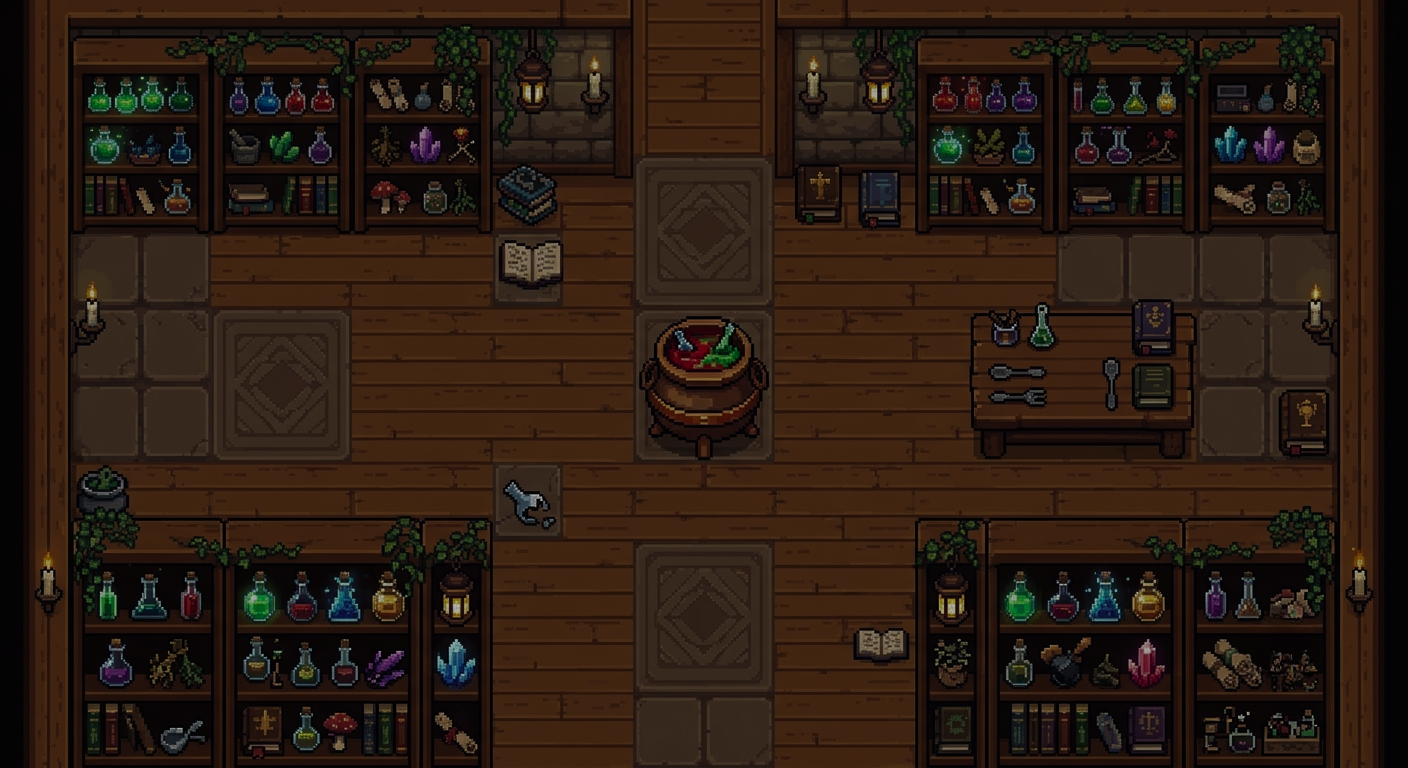
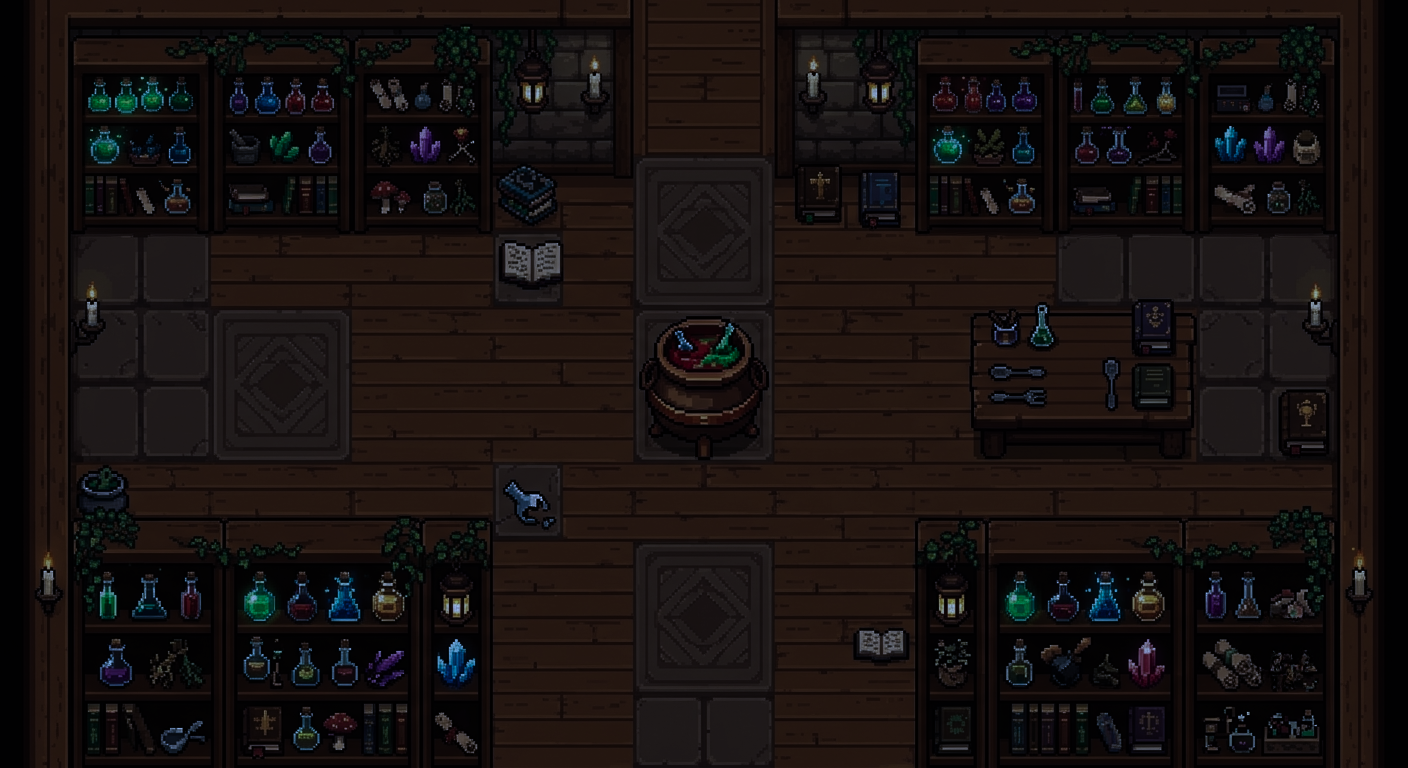
Code

diff --git a/sketch.js b/sketch.js
@@ -91,13 +91,14 @@ let home;
 let school;
 let banner;
 
-let goblins;
-let goblin;
-let goblinslvl2;
-let goblinslvl3;
 
 let classroomdoor;
 let cafedoor;
+
+let desk;
+let desk1;
+let desk2;
+let desk3;
 
 let cobblestone;
 let crackedStone;
@@ -186,6 +187,15 @@ const level2Dialogue = [
   "Okay, that journey was a lot... but I made it.",
   "I can't be late for chemistry class! I need ingredients for the potions assignment.",
   "Let's get moving before the ingredients run out!",
+];
+
+// DIALOGUE (LEVEL 3 INTRO)
+let level3DialogueActive = false;
+let level3DialogueIndex = 0;
+const level3Dialogue = [
+  "Whew, the potions are done. Now to get to the exit.",
+  "This place looks trickier than the last one...",
+  "Okay Faith, one more stretch. You've got this!",
 ];
 
 // LASER DAMAGE
@@ -537,19 +547,125 @@ let lasers3 = [
 
 
 let laserBeams = [
-  { x1: 125, y1: 112, x2: 832, y2: 112, blinkRate: 80, on: true, timer: 0 },
-  { x1: 125, y1: 216, x2: 316, y2: 216, blinkRate: 150, on: true, timer: 0 },
-  { x1: 45, y1: 296, x2: 112, y2: 296, blinkRate: 100, on: true, timer: 0 },
-  { x1: 245, y1: 496, x2: 428, y2: 496, blinkRate: 60, on: true, timer: 0 },
+  //top most laser
+  {
+    x1: 85,
+    y1: 105, // beam start (pixel coordinates)
+    x2: 260,
+    y2: 105, // beam end (pixel coordinates)
+    blinkRate: 80, // HAS TO MATCH WITH LASERS ABOVE
+    on: true,
+    timer: 0,
+  },
+  {
+    x1: 575,
+    y1: 225,
+    x2: 680,
+    y2: 225,
+    blinkRate: 100,
+    on: true,
+    timer: 0,
+  },
+  {
+    x1: 320,
+    y1: 385,
+    x2: 740,
+    y2: 385,
+    blinkRate: 150,
+    on: true,
+    timer: 0,
+  },
+  {
+    x1: 844,
+    y1: 305,
+    x2: 940,
+    y2: 305,
+    blinkRate: 60,
+    on: true,
+    timer: 0,
+  },
 ];
 
 let laserBeams2 = [
-  // Each beam begins at its Level 2 goblin and follows the open corridor to the left.
-  { x1: 125, y1: 112, x2: 832, y2: 112, blinkRate: 80, on: true, timer: 0 },
-  { x1: 125, y1: 216, x2: 316, y2: 216, blinkRate: 150, on: true, timer: 0 },
-  { x1: 45, y1: 296, x2: 112, y2: 296, blinkRate: 100, on: true, timer: 0 },
-  { x1: 245, y1: 496, x2: 428, y2: 496, blinkRate: 60, on: true, timer: 0 },
+  //top most laser
+  {
+    x1: 125,
+    y1: 105, // beam start (pixel coordinates)
+    x2: 1010,
+    y2: 105, // beam end (pixel coordinates)
+    blinkRate: 80, // HAS TO MATCH WITH LASERS ABOVE
+    on: true,
+    timer: 0,
+  },
+  {
+    x1: 575,
+    y1: 225,
+    x2: 680,
+    y2: 225,
+    blinkRate: 100,
+    on: true,
+    timer: 0,
+  },
+  {
+    x1: 320,
+    y1: 385,
+    x2: 740,
+    y2: 385,
+    blinkRate: 150,
+    on: true,
+    timer: 0,
+  },
+  {
+    x1: 844,
+    y1: 305,
+    x2: 940,
+    y2: 305,
+    blinkRate: 60,
+    on: true,
+    timer: 0,
+  },
 ];
+
+let laserBeams3 = [
+  //top most laser
+  {
+    x1: 85,
+    y1: 105, // beam start (pixel coordinates)
+    x2: 260,
+    y2: 105, // beam end (pixel coordinates)
+    blinkRate: 80, // HAS TO MATCH WITH LASERS ABOVE
+    on: true,
+    timer: 0,
+  },
+  {
+    x1: 575,
+    y1: 225,
+    x2: 680,
+    y2: 225,
+    blinkRate: 100,
+    on: true,
+    timer: 0,
+  },
+  {
+    x1: 320,
+    y1: 385,
+    x2: 740,
+    y2: 385,
+    blinkRate: 150,
+    on: true,
+    timer: 0,
+  },
+  {
+    x1: 844,
+    y1: 305,
+    x2: 940,
+    y2: 305,
+    blinkRate: 60,
+    on: true,
+    timer: 0,
+  },
+];
+
 
 // PATHWAY TILE VARIATION (LEVEL 2)
 let pathTiles = []; // pathTiles[row][col] = image to use for that floor tile
@@ -563,6 +679,22 @@ function setupPathTiles() {
     for (let c = 0; c < COLS; c++) {
       let index = floor(random(stoneVariants.length));
       pathTiles[r][c] = stoneVariants[index];
+    }
+  }
+}
+
+// WALL TILE VARIATION (LEVEL 2)
+let wallTiles = []; // wallTiles[row][col] = image to use for that wall tile
+
+function setupWallTiles() {
+  let deskVariants = [desk, desk1, desk2, desk3];
+
+  wallTiles = [];
+  for (let r = 0; r < ROWS; r++) {
+    wallTiles[r] = [];
+    for (let c = 0; c < COLS; c++) {
+      let index = floor(random(deskVariants.length));
+      wallTiles[r][c] = deskVariants[index];
     }
   }
 }
@@ -858,11 +990,13 @@ function preload() {
 
   classroomdoor = loadImage("assets/images/classroomdoor.png");
   cafedoor = loadImage("assets/images/cafedoor.png");
+
+  flask = loadImage("assets/images/flask.png");
   
-  desk = loadImage("assets/images/desksMaterials.png");
-  desk1 = loadImage("assets/images/desksMaterials2.png");
-  desk2 = loadImage("assets/images/desksMaterials3.png");
-  desk3 = loadImage("assets/images/cafedoor.png");
+  desk = loadImage("assets/images/desk.png");
+  desk1 = loadImage("assets/images/desksMaterials.jpg");
+  desk2 = loadImage("assets/images/desksMaterials2.jpg");
+  desk3 = loadImage("assets/images/desksMaterials3.jpg");
 
   cobblestone = loadImage("assets/images/cobblestone.png");
   crackedStone = loadImage("assets/images/crackedStone.png");
@@ -874,10 +1008,10 @@ function preload() {
   emptyCafeTable = loadImage("assets/images/emptyCafeTable.png");
 
   feather = loadImage("assets/images/feather.png");
-eyeballs = loadImage("assets/images/eyeballs.png");
-krakenInk = loadImage("assets/images/krakenInk.png");
-stardust = loadImage("assets/images/stardust.png");
-bone = loadImage("assets/images/bone.png");
+  eyeballs = loadImage("assets/images/eyeballs.png");
+  krakenInk = loadImage("assets/images/krakenInk.png");
+  stardust = loadImage("assets/images/stardust.png");
+  bone = loadImage("assets/images/bone.png");
 
   playerHitSound = loadSound("assets/sounds/hit.mp3");
 
@@ -905,6 +1039,7 @@ function setup() {
   initWallExpansion();
   setupCollectibles();
   setupPathTiles();
+  setupWallTiles();
 }
 
 function updateCamera() {
@@ -930,10 +1065,7 @@ function draw() {
     return;
   }
 
-  if (maze === maze3) {
-    //drawFoodMinigame();
-    return;
-  }
+
 
   if (firstLevelComplete) {
     drawFirstLevelCompleteScreen();
@@ -980,6 +1112,8 @@ function draw() {
     drawLevel2DialogueBox();
     return;
   }
+
+ 
 
   updateCamera();
 
@@ -1098,6 +1232,14 @@ function keyPressed() {
     return;
   }
 
+  if (level3DialogueActive && (key === " " || keyCode === ENTER)) {
+    level3DialogueIndex++;
+    if (level3DialogueIndex >= level3Dialogue.length) {
+      level3DialogueActive = false;
+    }
+    return;
+  }
+
   if (key === " " && !gameStarted) {
     showTutorial = true;
 
@@ -1121,7 +1263,6 @@ function keyPressed() {
 }
 
 function mousePressed() {
-  if (maze === maze3 && !thirdLevelComplete && !gameOver && clickFoodGoblin()) return;
 
   if (introDialogueActive) {
     introDialogueIndex++;
@@ -1717,6 +1858,8 @@ function drawLevel2DialogueBox() {
   text("click or press SPACE to continue", boxX + boxW - 20, boxY + boxH - 12);
 }
 
+
+
 // BADGE
 function drawBadge() {
   if (!badgeUnlocked && !potionBadgeUnlocked) return;
@@ -1835,8 +1978,11 @@ function drawMaze() {
 
       if (tile === 1) {
         let expand = wallExpansion[row][col] * WALL_MAX_EXPAND;
+
+        let wallImg = (maze === maze2) ? wallTiles[row][col] : wall;
+
         image(
-          wall,
+          wallImg,
           col * tileSize - expand,
           row * tileSize - expand,
           tileSize + expand * 2,
@@ -1886,7 +2032,7 @@ function drawSocialBar() {
   textSize(15);
   let objective = "LVL 1: Make your way to school!";
   if (maze === maze2) objective = "LVL 2: Reach the cafe!";
-  if (maze === maze3) objective = "LVL 3: Stop the food fight!";
+  if (maze === maze3) objective = "LVL 3: Collect food and reach the exit!";
   text(objective, 50, 24);
 
  // Collectible Count
@@ -2331,9 +2477,16 @@ function resetBeakers() {
  
 
 function loadThirdLevel() {
+
   maze = maze3;
+
+  lasers = lasers3;
+  laserBeams = laserBeams3
   socialBattery = 100;
   gameOver = false;
+
+  lasers = lasers3;
+  laserBeams = laserBeams3;
 
 
   firstLevelComplete = false;
@@ -2341,9 +2494,7 @@ function loadThirdLevel() {
 
   character = characterlvl3;
 
-  goblins = goblinslvl3;
-
-  GOBLIN = GOBLIN_LVL3;
+  
   
   // Reposition player at the new start tile
   outer: for (let r = 0; r < ROWS; r++) {
@@ -2361,5 +2512,8 @@ function loadThirdLevel() {
   collectedCount = 0;
   badgeUnlocked = false;
 
+  // Start the Level 3 intro dialogue
+  level3DialogueActive = true;
+  level3DialogueIndex = 0;
 
 }
